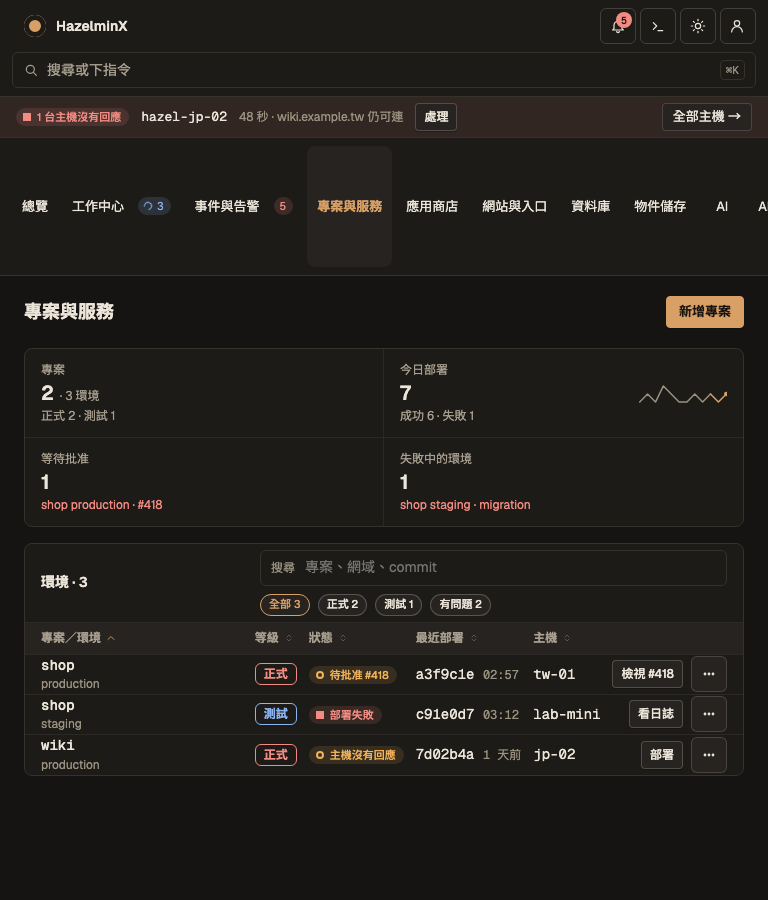
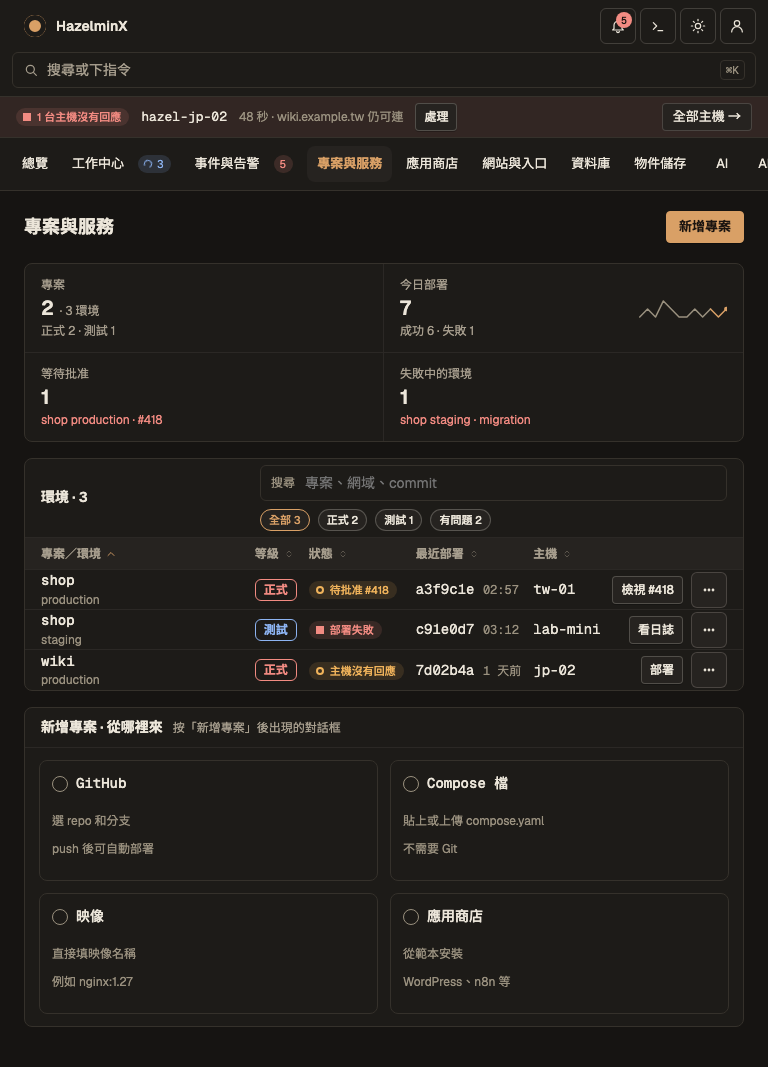
design: add the new-project source picker to the projects board

diff --git a/design/screens/Projects.dc.html b/design/screens/Projects.dc.html
@@ -505,6 +505,15 @@ body{margin:0}
       <a class="row r0" href="ProjectDetail.dc.html"><span class="name"><span class="n">shop</span><span class="d">production</span></span><span><span class="tier dng" data-tip="用途等級：正式">正式</span></span><span><span class="st warn"><i aria-hidden="true"></i>待批准 #418</span></span><span class="mono">a3f9c1e <span class="note">02:57</span></span><span class="mono c3">tw-01</span><span class="c6">shop.example.tw</span><span class="c5"><div class="timeline" role="img" aria-label="部署歷史：22 成功、1 失敗、1 回滾"><i class="" title="第 1 段 · 成功"></i><i class="" title="第 2 段 · 成功"></i><i class="" title="第 3 段 · 成功"></i><i class="" title="第 4 段 · 成功"></i><i class="" title="第 5 段 · 成功"></i><i class="" title="第 6 段 · 成功"></i><i class="" title="第 7 段 · 成功"></i><i class="" title="第 8 段 · 成功"></i><i class="f" title="第 9 段 · 失敗"></i><i class="" title="第 10 段 · 成功"></i><i class="" title="第 11 段 · 成功"></i><i class="" title="第 12 段 · 成功"></i><i class="" title="第 13 段 · 成功"></i><i class="" title="第 14 段 · 成功"></i><i class="" title="第 15 段 · 成功"></i><i class="" title="第 16 段 · 成功"></i><i class="" title="第 17 段 · 成功"></i><i class="" title="第 18 段 · 成功"></i><i class="" title="第 19 段 · 成功"></i><i class="" title="第 20 段 · 成功"></i><i class="" title="第 21 段 · 成功"></i><i class="" title="第 22 段 · 成功"></i><i class="r" title="第 23 段 · 回滾"></i><i class="" title="第 24 段 · 成功"></i></div></span><span class="wrap" style="justify-content:flex-end;flex-wrap:nowrap"><button type="button" class="btn sm">檢視 #418</button><button type="button" class="ib" aria-label="更多動作"><svg viewBox="0 0 24 24" width="16" height="16" fill="none" stroke="currentColor" stroke-width="1.8" stroke-linecap="round" stroke-linejoin="round" aria-hidden="true"><circle cx="6" cy="12" r="1.2"/><circle cx="12" cy="12" r="1.2"/><circle cx="18" cy="12" r="1.2"/></svg></button></span></a>
       <a class="row r0" href="ProjectDetail.dc.html"><span class="name"><span class="n">shop</span><span class="d">staging</span></span><span><span class="tier info" data-tip="用途等級：測試">測試</span></span><span><span class="st dng"><i aria-hidden="true"></i>部署失敗</span></span><span class="mono">c91e0d7 <span class="note">03:12</span></span><span class="mono c3">lab-mini</span><span class="c6">staging.shop.example.tw</span><span class="c5"><div class="timeline" role="img" aria-label="部署歷史：18 成功、6 失敗"><i class="" title="第 1 段 · 成功"></i><i class="" title="第 2 段 · 成功"></i><i class="" title="第 3 段 · 成功"></i><i class="" title="第 4 段 · 成功"></i><i class="f" title="第 5 段 · 失敗"></i><i class="" title="第 6 段 · 成功"></i><i class="" title="第 7 段 · 成功"></i><i class="" title="第 8 段 · 成功"></i><i class="" title="第 9 段 · 成功"></i><i class="" title="第 10 段 · 成功"></i><i class="" title="第 11 段 · 成功"></i><i class="" title="第 12 段 · 成功"></i><i class="" title="第 13 段 · 成功"></i><i class="" title="第 14 段 · 成功"></i><i class="f" title="第 15 段 · 失敗"></i><i class="" title="第 16 段 · 成功"></i><i class="" title="第 17 段 · 成功"></i><i class="" title="第 18 段 · 成功"></i><i class="" title="第 19 段 · 成功"></i><i class="" title="第 20 段 · 成功"></i><i class="f" title="第 21 段 · 失敗"></i><i class="f" title="第 22 段 · 失敗"></i><i class="f" title="第 23 段 · 失敗"></i><i class="f" title="第 24 段 · 失敗"></i></div></span><span class="wrap" style="justify-content:flex-end;flex-wrap:nowrap"><button type="button" class="btn sm">看日誌</button><button type="button" class="ib" aria-label="更多動作"><svg viewBox="0 0 24 24" width="16" height="16" fill="none" stroke="currentColor" stroke-width="1.8" stroke-linecap="round" stroke-linejoin="round" aria-hidden="true"><circle cx="6" cy="12" r="1.2"/><circle cx="12" cy="12" r="1.2"/><circle cx="18" cy="12" r="1.2"/></svg></button></span></a>
       <a class="row r0" href="ProjectDetail.dc.html"><span class="name"><span class="n">wiki</span><span class="d">production</span></span><span><span class="tier dng" data-tip="用途等級：正式">正式</span></span><span><span class="st warn"><i aria-hidden="true"></i>主機沒有回應</span></span><span class="mono">7d02b4a <span class="note">1 天前</span></span><span class="mono c3">jp-02</span><span class="c6">wiki.example.tw</span><span class="c5"><div class="timeline" role="img" aria-label="部署歷史：24 成功"><i class="" title="第 1 段 · 成功"></i><i class="" title="第 2 段 · 成功"></i><i class="" title="第 3 段 · 成功"></i><i class="" title="第 4 段 · 成功"></i><i class="" title="第 5 段 · 成功"></i><i class="" title="第 6 段 · 成功"></i><i class="" title="第 7 段 · 成功"></i><i class="" title="第 8 段 · 成功"></i><i class="" title="第 9 段 · 成功"></i><i class="" title="第 10 段 · 成功"></i><i class="" title="第 11 段 · 成功"></i><i class="" title="第 12 段 · 成功"></i><i class="" title="第 13 段 · 成功"></i><i class="" title="第 14 段 · 成功"></i><i class="" title="第 15 段 · 成功"></i><i class="" title="第 16 段 · 成功"></i><i class="" title="第 17 段 · 成功"></i><i class="" title="第 18 段 · 成功"></i><i class="" title="第 19 段 · 成功"></i><i class="" title="第 20 段 · 成功"></i><i class="" title="第 21 段 · 成功"></i><i class="" title="第 22 段 · 成功"></i><i class="" title="第 23 段 · 成功"></i><i class="" title="第 24 段 · 成功"></i></div></span><span class="wrap" style="justify-content:flex-end;flex-wrap:nowrap"><button type="button" class="btn sm">部署</button><button type="button" class="ib" aria-label="更多動作"><svg viewBox="0 0 24 24" width="16" height="16" fill="none" stroke="currentColor" stroke-width="1.8" stroke-linecap="round" stroke-linejoin="round" aria-hidden="true"><circle cx="6" cy="12" r="1.2"/><circle cx="12" cy="12" r="1.2"/><circle cx="18" cy="12" r="1.2"/></svg></button></span></a></div>
+    </section>
+    <section class="panel" aria-labelledby="h-newsrc">
+      <div class="ph"><h2 id="h-newsrc">新增專案 · 從哪裡來</h2><span class="sub">按「新增專案」後出現的對話框</span></div>
+      <div class="fleet choices">
+        <a class="ncard pick" href="GitHubSource.dc.html"><div class="nh"><span class="rdo" aria-hidden="true"></span><span class="n">GitHub</span><span class="d"></span></div><span class="note">選 repo 和分支</span><span class="note">push 後可自動部署</span><div class="wrap"></div></a>
+        <a class="ncard pick" href="ComposeEditor.dc.html"><div class="nh"><span class="rdo" aria-hidden="true"></span><span class="n">Compose 檔</span><span class="d"></span></div><span class="note">貼上或上傳 compose.yaml</span><span class="note">不需要 Git</span><div class="wrap"></div></a>
+        <a class="ncard pick" href="ContainerCreate.dc.html"><div class="nh"><span class="rdo" aria-hidden="true"></span><span class="n">映像</span><span class="d"></span></div><span class="note">直接填映像名稱</span><span class="note">例如 nginx:1.27</span><div class="wrap"></div></a>
+        <a class="ncard pick" href="AppStore.dc.html"><div class="nh"><span class="rdo" aria-hidden="true"></span><span class="n">應用商店</span><span class="d"></span></div><span class="note">從範本安裝</span><span class="note">WordPress、n8n 等</span><div class="wrap"></div></a>
+      </div>
     </section></main></div></div>
 </x-dc>
 <script type="text/x-dc" data-dc-script data-props='{"light":{"editor":"boolean","default":false,"section":"主題"},"$preview":{"width":1440,"height":900}}'>

diff --git a/design/tools/build_screens.py b/design/tools/build_screens.py
@@ -393,7 +393,17 @@ def project_list() -> str:
       {env("shop", "staging", U.tier("測試"), U.status("dng", "部署失敗"), "c91e0d7", "03:12", "lab-mini", "staging.shop.example.tw", "oooofooooooooofoooooffff", '<button type="button" class="btn sm">看日誌</button>' + more)}
       {env("wiki", "production", U.tier("正式"), U.status("warn", "主機沒有回應"), "7d02b4a", "1 天前", "jp-02", "wiki.example.tw", "oooooooooooooooooooooooo", dep + more)}
     </section>"""
-    return U.shell("projects", head + tiles + table)
+    pick = f"""
+    <section class="panel" aria-labelledby="h-newsrc">
+      <div class="ph"><h2 id="h-newsrc">新增專案 · 從哪裡來</h2><span class="sub">按「新增專案」後出現的對話框</span></div>
+      <div class="fleet choices">
+        {_choice("GitHub", "", ["選 repo 和分支", "push 後可自動部署"], "", href="GitHubSource.dc.html")}
+        {_choice("Compose 檔", "", ["貼上或上傳 compose.yaml", "不需要 Git"], "", href="ComposeEditor.dc.html")}
+        {_choice("映像", "", ["直接填映像名稱", "例如 nginx:1.27"], "", href="ContainerCreate.dc.html")}
+        {_choice("應用商店", "", ["從範本安裝", "WordPress、n8n 等"], "", href="AppStore.dc.html")}
+      </div>
+    </section>"""
+    return U.shell("projects", head + tiles + table + pick)
 
 
 def projects() -> str:
